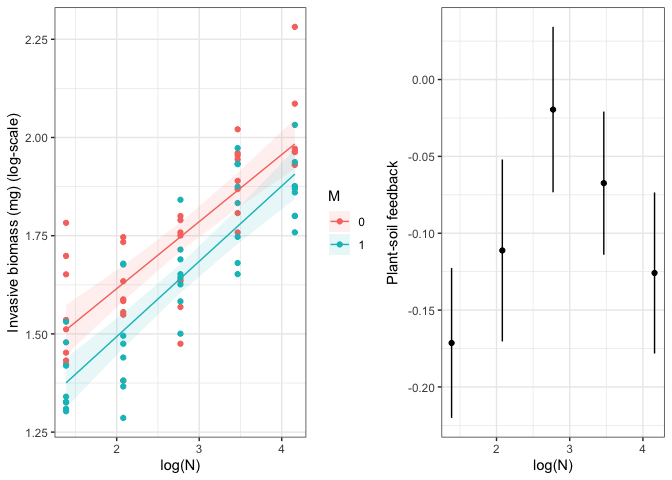
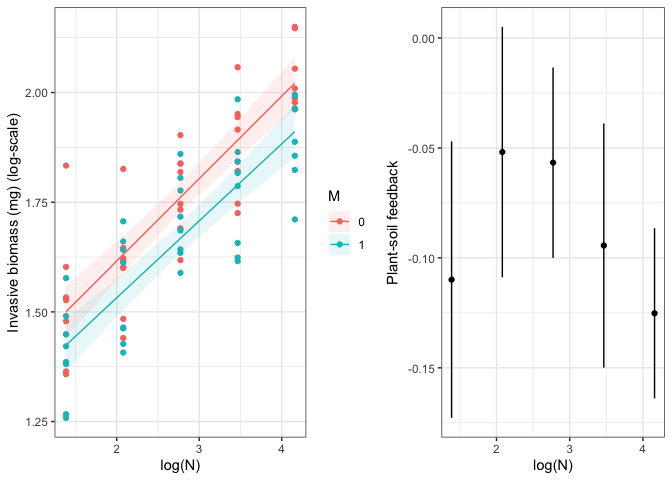
fix equations so that they display correctly on github

diff --git a/01-plan/01-pre-registration/03-analysis-plan.md b/01-plan/01-pre-registration/03-analysis-plan.md
@@ -41,26 +41,21 @@ stronger negative effect on plant biomass) with increasing nitrogen.
 Based on this experimental design, we will use the following linear
 model to analyse this experiment:
 
-$$
-\begin{aligned}
-log(L_{i}) = \alpha + \beta_1\text{N}_{i} + \beta_2\text{M}_{i} + \beta_3\text{N}_{i}\text{M}_{i} + \epsilon_{i}
-\end{aligned}
-$$ $$
-\begin{aligned}
-\epsilon_{i} \sim Normal(0, \sigma_{residual})
-\end{aligned}
-$$ Based on this model, we can set-up the statistical hypotheses as
+![log(L\_{i}) = \alpha + \beta_1\text{N}\_{i} + \beta_2\text{M}\_{i} + \beta_3\text{N}\_{i}\text{M}\_{i} + \epsilon\_{i}](log%28L_%7Bi%7D%29%20%3D%20%5Calpha%20%2B%20%5Cbeta_1%5Ctext%7BN%7D_%7Bi%7D%20%2B%20%5Cbeta_2%5Ctext%7BM%7D_%7Bi%7D%20%2B%20%5Cbeta_3%5Ctext%7BN%7D_%7Bi%7D%5Ctext%7BM%7D_%7Bi%7D%20%2B%20%5Cepsilon_%7Bi%7D "log(L_{i}) = \alpha + \beta_1\text{N}_{i} + \beta_2\text{M}_{i} + \beta_3\text{N}_{i}\text{M}_{i} + \epsilon_{i}")
+
+![\epsilon\_{i} \sim Normal(0, \sigma\_{residual})](%5Cepsilon_%7Bi%7D%20%5Csim%20Normal%280%2C%20%5Csigma_%7Bresidual%7D%29 "\epsilon_{i} \sim Normal(0, \sigma_{residual})")
+
+Based on this model, we can set-up the statistical hypotheses as
 follows:
 
-$$
-H_0: \beta_3 \ge 0
-$$ $$
-H_A: \beta_3 \lt 0
-$$
+![H_0: \beta_3 \ge 0](H_0%3A%20%5Cbeta_3%20%5Cge%200 "H_0: \beta_3 \ge 0")
 
-Therefore, if $\beta_3$ is significantly less than zero
-(i.e. $P < 0.025$), we would interpret this as evidence that plant-soil
-feedback does become stronger with increasing N.
+![H_A: \beta_3 \lt 0](H_A%3A%20%5Cbeta_3%20%5Clt%200 "H_A: \beta_3 \lt 0")
+
+Therefore, if ![\beta_3](%5Cbeta_3 "\beta_3") is significantly less than
+zero (i.e. ![P \< 0.025](P%20%3C%200.025 "P < 0.025")), we would
+interpret this as evidence that plant-soil feedback does become stronger
+with increasing N.
 
 ### Simulated data
 
@@ -122,12 +117,12 @@ head(dat_e1)
     # A tibble: 6 × 5
           N     M     L N_trans L_log
       <dbl> <dbl> <dbl>   <dbl> <dbl>
-    1  1.39     0  4.62       0  1.53
-    2  1.39     0  4.92       0  1.59
-    3  1.39     0  3.67       0  1.30
-    4  1.39     0  4.91       0  1.59
-    5  1.39     0  4.56       0  1.52
-    6  1.39     0  4.74       0  1.56
+    1  1.39     0  4.02       0  1.39
+    2  1.39     0  4.81       0  1.57
+    3  1.39     0  5.21       0  1.65
+    4  1.39     0  4.24       0  1.45
+    5  1.39     0  4.16       0  1.43
+    6  1.39     0  5.02       0  1.61
 
 Now we are ready to fit the model:
 
@@ -184,27 +179,30 @@ summary(lm_e1)
     lm(formula = L_log ~ M + N_trans + M:N_trans, data = dat_e1)
 
     Residuals:
-         Min       1Q   Median       3Q      Max 
-    -0.21661 -0.08118  0.02234  0.06484  0.25279 
+          Min        1Q    Median        3Q       Max 
+    -0.305161 -0.063319  0.000386  0.070744  0.237251 
 
     Coefficients:
                 Estimate Std. Error t value Pr(>|t|)    
-    (Intercept)  1.51180    0.02935  51.516  < 2e-16 ***
-    M           -0.16401    0.04150  -3.952 0.000172 ***
-    N_trans      0.21225    0.01728  12.280  < 2e-16 ***
-    M:N_trans   -0.09241    0.02444  -3.781 0.000309 ***
+    (Intercept)  1.52973    0.02958  51.709  < 2e-16 ***
+    M           -0.16738    0.04184  -4.001 0.000145 ***
+    N_trans      0.19906    0.01742  11.424  < 2e-16 ***
+    M:N_trans   -0.09175    0.02464  -3.723 0.000375 ***
     ---
     Signif. codes:  0 '***' 0.001 '**' 0.01 '*' 0.05 '.' 0.1 ' ' 1
 
-    Residual standard error: 0.1072 on 76 degrees of freedom
-    Multiple R-squared:  0.8205,    Adjusted R-squared:  0.8135 
-    F-statistic: 115.8 on 3 and 76 DF,  p-value: < 2.2e-16
+    Residual standard error: 0.108 on 76 degrees of freedom
+    Multiple R-squared:  0.8067,    Adjusted R-squared:  0.7991 
+    F-statistic: 105.7 on 3 and 76 DF,  p-value: < 2.2e-16
 
-In this output, the $\beta_3$ parameter is the “M:N_trans” parameter.
-This output indicates that $\beta_3$ is significantly less than zero
-($t_1 = -4.03; P = 0.00013$). Therefore, we would reject our null
-hypothesis ($H_0: \beta_3 \ge 0$) and infer support for our alternative
-hypothesis ($H_0: \beta_3 < 0$).
+In this output, the ![\beta_3](%5Cbeta_3 "\beta_3") parameter is the
+“M:N_trans” parameter. This output indicates that
+![\beta_3](%5Cbeta_3 "\beta_3") is significantly less than zero
+(![t_1 = -4.03; P = 0.00013](t_1%20%3D%20-4.03%3B%20P%20%3D%200.00013 "t_1 = -4.03; P = 0.00013")).
+Therefore, we would reject our null hypothesis
+(![H_0: \beta_3 \ge 0](H_0%3A%20%5Cbeta_3%20%5Cge%200 "H_0: \beta_3 \ge 0"))
+and infer support for our alternative hypothesis
+(![H_0: \beta_3 \< 0](H_0%3A%20%5Cbeta_3%20%3C%200 "H_0: \beta_3 < 0")).
 
 ### Visualise the results
 
@@ -212,14 +210,12 @@ To visualise the results, we will plot the model against the raw data.
 In addition, we will calculate plant-soil feedback using the metric used
 by Goossens et al. (2023, npj):
 
-$$
-PSF_j = \frac{\overline{L}_{microbes} - \overline{L}_{no \ microbes}}{\overline{L}_{no \ microbes}}
-$$
+![PSF_j = \frac{\overline{L}\_{microbes} - \overline{L}\_{no \\microbes}}{\overline{L}\_{no \\microbes}}](PSF_j%20%3D%20%5Cfrac%7B%5Coverline%7BL%7D_%7Bmicrobes%7D%20-%20%5Coverline%7BL%7D_%7Bno%20%5C%20microbes%7D%7D%7B%5Coverline%7BL%7D_%7Bno%20%5C%20microbes%7D%7D "PSF_j = \frac{\overline{L}_{microbes} - \overline{L}_{no \ microbes}}{\overline{L}_{no \ microbes}}")
 
-In this equation, the $\overline{L}$ is the average across replicates of
-plant biomass for a given nitrogen level. Therefore, to obtain a
-measurement of the error around this estimate for each level of
-nitrogen, we used bootstrapping.
+In this equation, the ![\overline{L}](%5Coverline%7BL%7D "\overline{L}")
+is the average across replicates of plant biomass for a given nitrogen
+level. Therefore, to obtain a measurement of the error around this
+estimate for each level of nitrogen, we used bootstrapping.
 
 ``` r
 # function for bootstrapping the sample and estimating psf
@@ -337,28 +333,26 @@ increasing nitrogen for invasive species. Based on this experimental
 design, we will use the following linear model to analyse this
 experiment:
 
-$$
-log(I_{i}) = \alpha + \beta_1\text{N}_{i} + \beta_2\text{M}_{i} + \beta_3\text{N}_{i}\text{M}_{i} + \epsilon_{i}
-$$ $$
-\epsilon_{i} \sim Normal(0, \sigma_{residual})
-$$ Based on this model, we can set-up the statistical hypotheses as
+![log(I\_{i}) = \alpha + \beta_1\text{N}\_{i} + \beta_2\text{M}\_{i} + \beta_3\text{N}\_{i}\text{M}\_{i} + \epsilon\_{i}](log%28I_%7Bi%7D%29%20%3D%20%5Calpha%20%2B%20%5Cbeta_1%5Ctext%7BN%7D_%7Bi%7D%20%2B%20%5Cbeta_2%5Ctext%7BM%7D_%7Bi%7D%20%2B%20%5Cbeta_3%5Ctext%7BN%7D_%7Bi%7D%5Ctext%7BM%7D_%7Bi%7D%20%2B%20%5Cepsilon_%7Bi%7D "log(I_{i}) = \alpha + \beta_1\text{N}_{i} + \beta_2\text{M}_{i} + \beta_3\text{N}_{i}\text{M}_{i} + \epsilon_{i}")
+
+![\epsilon\_{i} \sim Normal(0, \sigma\_{residual})](%5Cepsilon_%7Bi%7D%20%5Csim%20Normal%280%2C%20%5Csigma_%7Bresidual%7D%29 "\epsilon_{i} \sim Normal(0, \sigma_{residual})")
+
+Based on this model, we can set-up the statistical hypotheses as
 follows. The null hypothesis is that plant-soil feedback does not change
 or becomes weaker:
 
-$$
-H_0: \beta_3 \ge 0
-$$
+![H_0: \beta_3 \ge 0](H_0%3A%20%5Cbeta_3%20%5Cge%200 "H_0: \beta_3 \ge 0")
 
 The alternative hypothesis is that plant-soil feedback becomes stronger.
 
-$$
-H_A: \beta_3 \lt 0
-$$
+![H_A: \beta_3 \lt 0](H_A%3A%20%5Cbeta_3%20%5Clt%200 "H_A: \beta_3 \lt 0")
 
-Therefore, if $\beta_3$ is significantly less than zero
-(i.e. $P < 0.025$), we would interpret this as evidence that plant-soil
-feedback does become stronger with increasing N. However, if $\beta_3$
-is not significantly less than zero (i.e. $P \ge 0.025$), then we cannot
+Therefore, if ![\beta_3](%5Cbeta_3 "\beta_3") is significantly less than
+zero (i.e. ![P \< 0.025](P%20%3C%200.025 "P < 0.025")), we would
+interpret this as evidence that plant-soil feedback does become stronger
+with increasing N. However, if ![\beta_3](%5Cbeta_3 "\beta_3") is not
+significantly less than zero
+(i.e. ![P \ge 0.025](P%20%5Cge%200.025 "P \ge 0.025")), then we cannot
 reject the null hypothesis and we infer that nitrogen does not modify
 the strength of plant-soil feedback in invasive species.
 
@@ -418,12 +412,12 @@ head(dat_e2)
     # A tibble: 6 × 5
           N     M     I N_trans I_log
       <dbl> <dbl> <dbl>   <dbl> <dbl>
-    1  1.39     0  5.95       0  1.78
-    2  1.39     0  4.27       0  1.45
-    3  1.39     0  4.19       0  1.43
-    4  1.39     0  4.64       0  1.54
-    5  1.39     0  4.53       0  1.51
-    6  1.39     0  5.47       0  1.70
+    1  1.39     0  4.97       0  1.60
+    2  1.39     0  3.91       0  1.36
+    3  1.39     0  4.60       0  1.53
+    4  1.39     0  6.26       0  1.83
+    5  1.39     0  4.39       0  1.48
+    6  1.39     0  4.26       0  1.45
 
 Next, we fit the model.
 
@@ -476,26 +470,29 @@ summary(lm_e2)
 
     Residuals:
          Min       1Q   Median       3Q      Max 
-    -0.27198 -0.07256 -0.01714  0.08144  0.29805 
+    -0.20024 -0.07048 -0.01057  0.06855  0.33308 
 
     Coefficients:
                 Estimate Std. Error t value Pr(>|t|)    
-    (Intercept)  1.51041    0.03190  47.349  < 2e-16 ***
-    M           -0.13501    0.04511  -2.993  0.00373 ** 
-    N_trans      0.17065    0.01879   9.083 9.26e-14 ***
-    M:N_trans    0.02102    0.02657   0.791  0.43129    
+    (Intercept)  1.50048    0.02999  50.028   <2e-16 ***
+    M           -0.07619    0.04242  -1.796   0.0764 .  
+    N_trans      0.18799    0.01767  10.642   <2e-16 ***
+    M:N_trans   -0.01247    0.02498  -0.499   0.6192    
     ---
     Signif. codes:  0 '***' 0.001 '**' 0.01 '*' 0.05 '.' 0.1 ' ' 1
 
-    Residual standard error: 0.1165 on 76 degrees of freedom
-    Multiple R-squared:  0.7277,    Adjusted R-squared:  0.717 
-    F-statistic:  67.7 on 3 and 76 DF,  p-value: < 2.2e-16
+    Residual standard error: 0.1095 on 76 degrees of freedom
+    Multiple R-squared:  0.7488,    Adjusted R-squared:  0.7389 
+    F-statistic: 75.51 on 3 and 76 DF,  p-value: < 2.2e-16
 
-The $\beta_3$ parameter is the “M:N_trans” parameter. This output
-indicates that $\beta_3$ is not significantly less than zero
-($t_1 = 1.1; P = 0.27$). Therefore, we cannot reject the null hypothesis
-($H_0: \beta_3 \ge 0$) and, therefore, that plant-soil feedback does not
-become stronger with nitrogen for invasive species.
+The ![\beta_3](%5Cbeta_3 "\beta_3") parameter is the “M:N_trans”
+parameter. This output indicates that ![\beta_3](%5Cbeta_3 "\beta_3") is
+not significantly less than zero
+(![t_1 = 1.1; P = 0.27](t_1%20%3D%201.1%3B%20P%20%3D%200.27 "t_1 = 1.1; P = 0.27")).
+Therefore, we cannot reject the null hypothesis
+(![H_0: \beta_3 \ge 0](H_0%3A%20%5Cbeta_3%20%5Cge%200 "H_0: \beta_3 \ge 0"))
+and, therefore, that plant-soil feedback does not become stronger with
+nitrogen for invasive species.
 
 ### Visualise the results
 
@@ -575,23 +572,15 @@ plot(dag3)
 
 ![](03-analysis-plan_files/figure-commonmark/unnamed-chunk-19-1.png)
 
-$$
-log(L_{i}) = \alpha + \beta_1\text{N}_{i} + \beta_2\text{M}_{i} + \beta_3\text{I}_{i} + \beta_4\text{N}_{i}\text{M}_{i} + \beta_5\text{I}_{i}\text{M}_{i} + \beta_6\text{I}_{i}\text{N}_{i} + \beta_7\text{N}_{i}\text{M}_{i}\text{I}_{i} + \epsilon_{i}
-$$
+![log(L\_{i}) = \alpha + \beta_1\text{N}\_{i} + \beta_2\text{M}\_{i} + \beta_3\text{I}\_{i} + \beta_4\text{N}\_{i}\text{M}\_{i} + \beta_5\text{I}\_{i}\text{M}\_{i} + \beta_6\text{I}\_{i}\text{N}\_{i} + \beta_7\text{N}\_{i}\text{M}\_{i}\text{I}\_{i} + \epsilon\_{i}](log%28L_%7Bi%7D%29%20%3D%20%5Calpha%20%2B%20%5Cbeta_1%5Ctext%7BN%7D_%7Bi%7D%20%2B%20%5Cbeta_2%5Ctext%7BM%7D_%7Bi%7D%20%2B%20%5Cbeta_3%5Ctext%7BI%7D_%7Bi%7D%20%2B%20%5Cbeta_4%5Ctext%7BN%7D_%7Bi%7D%5Ctext%7BM%7D_%7Bi%7D%20%2B%20%5Cbeta_5%5Ctext%7BI%7D_%7Bi%7D%5Ctext%7BM%7D_%7Bi%7D%20%2B%20%5Cbeta_6%5Ctext%7BI%7D_%7Bi%7D%5Ctext%7BN%7D_%7Bi%7D%20%2B%20%5Cbeta_7%5Ctext%7BN%7D_%7Bi%7D%5Ctext%7BM%7D_%7Bi%7D%5Ctext%7BI%7D_%7Bi%7D%20%2B%20%5Cepsilon_%7Bi%7D "log(L_{i}) = \alpha + \beta_1\text{N}_{i} + \beta_2\text{M}_{i} + \beta_3\text{I}_{i} + \beta_4\text{N}_{i}\text{M}_{i} + \beta_5\text{I}_{i}\text{M}_{i} + \beta_6\text{I}_{i}\text{N}_{i} + \beta_7\text{N}_{i}\text{M}_{i}\text{I}_{i} + \epsilon_{i}")
 
-$$
-\epsilon_{i} \sim Normal(0, \sigma_{residual})
-$$
+![\epsilon\_{i} \sim Normal(0, \sigma\_{residual})](%5Cepsilon_%7Bi%7D%20%5Csim%20Normal%280%2C%20%5Csigma_%7Bresidual%7D%29 "\epsilon_{i} \sim Normal(0, \sigma_{residual})")
 
-$$
-H_0: \beta_7 \ge 0
-$$
+![H_0: \beta_7 \ge 0](H_0%3A%20%5Cbeta_7%20%5Cge%200 "H_0: \beta_7 \ge 0")
 
 The alternative hypothesis is that plant-soil feedback becomes stronger.
 
-$$
-H_A: \beta_7 \lt 0
-$$
+![H_A: \beta_7 \lt 0](H_A%3A%20%5Cbeta_7%20%5Clt%200 "H_A: \beta_7 \lt 0")
 
 ### Simulated data
 
@@ -679,12 +668,12 @@ head(dat_e3)
     # A tibble: 6 × 6
           N     M     I     L N_trans L_log
       <dbl> <dbl> <dbl> <dbl>   <dbl> <dbl>
-    1  1.39     0     0  5.47       0  1.70
-    2  1.39     0     0  4.74       0  1.56
-    3  1.39     0     0  5.33       0  1.67
-    4  1.39     0     0  5.14       0  1.64
-    5  1.39     0     0  5.31       0  1.67
-    6  1.39     0     0  5.45       0  1.69
+    1  1.39     0     0  5.29       0  1.67
+    2  1.39     0     0  4.65       0  1.54
+    3  1.39     0     0  5.20       0  1.65
+    4  1.39     0     0  5.23       0  1.65
+    5  1.39     0     0  4.96       0  1.60
+    6  1.39     0     0  5.14       0  1.64
 
 ``` r
 # fit the statistical model
@@ -730,31 +719,33 @@ summary(lm_e3)
 
     Residuals:
           Min        1Q    Median        3Q       Max 
-    -0.117347 -0.028253 -0.001368  0.030753  0.133403 
+    -0.117909 -0.038519  0.002396  0.034266  0.123897 
 
     Coefficients:
                  Estimate Std. Error t value Pr(>|t|)    
-    (Intercept)  1.531698   0.022295  68.700  < 2e-16 ***
-    N            0.090631   0.007581  11.954  < 2e-16 ***
-    M           -0.276688   0.031530  -8.775 3.26e-15 ***
-    I           -0.138612   0.031530  -4.396 2.06e-05 ***
-    N:M         -0.040454   0.010722  -3.773 0.000231 ***
-    M:I          0.053797   0.044591   1.206 0.229511    
-    N:I          0.010245   0.010722   0.956 0.340825    
-    N:M:I       -0.113451   0.015163  -7.482 5.47e-12 ***
+    (Intercept)  1.497750   0.025481  58.779  < 2e-16 ***
+    N            0.100172   0.008665  11.561  < 2e-16 ***
+    M           -0.207229   0.036036  -5.751 4.73e-08 ***
+    I           -0.081218   0.036036  -2.254   0.0256 *  
+    N:M         -0.058774   0.012254  -4.796 3.82e-06 ***
+    M:I         -0.050762   0.050962  -0.996   0.3208    
+    N:I         -0.008102   0.012254  -0.661   0.5095    
+    N:M:I       -0.084952   0.017330  -4.902 2.41e-06 ***
     ---
     Signif. codes:  0 '***' 0.001 '**' 0.01 '*' 0.05 '.' 0.1 ' ' 1
 
-    Residual standard error: 0.047 on 152 degrees of freedom
-    Multiple R-squared:  0.9777,    Adjusted R-squared:  0.9766 
-    F-statistic:   950 on 7 and 152 DF,  p-value: < 2.2e-16
+    Residual standard error: 0.05372 on 152 degrees of freedom
+    Multiple R-squared:  0.971, Adjusted R-squared:  0.9696 
+    F-statistic: 726.6 on 7 and 152 DF,  p-value: < 2.2e-16
 
-The $\beta_7$ parameter is the “N:M:I” parameter. This output indicates
-that $\beta_7$ is significantly less than zero ()
-($t_1 = -6.6; P < 0.001$). Therefore, we accept our alternative
-hypothesis that $\beta_7$ is less than zero which indicates that the
-competitive effect of invasives on natives increases with nitrogen but
-only with microbes.
+The ![\beta_7](%5Cbeta_7 "\beta_7") parameter is the “N:M:I” parameter.
+This output indicates that ![\beta_7](%5Cbeta_7 "\beta_7") is
+significantly less than zero ()
+(![t_1 = -6.6; P \< 0.001](t_1%20%3D%20-6.6%3B%20P%20%3C%200.001 "t_1 = -6.6; P < 0.001")).
+Therefore, we accept our alternative hypothesis that
+![\beta_7](%5Cbeta_7 "\beta_7") is less than zero which indicates that
+the competitive effect of invasives on natives increases with nitrogen
+but only with microbes.
 
 Function to bootstrap the competition estimate.
 
@@ -834,19 +825,19 @@ summary(comp_e3_boot)
 ```
 
      bootstrap_i              N               M         without_I    
-     Length:9910        Min.   :1.386   Min.   :0.0   Min.   :3.602  
-     Class :character   1st Qu.:2.079   1st Qu.:0.0   1st Qu.:4.065  
-     Mode  :character   Median :2.773   Median :0.5   Median :4.646  
-                        Mean   :2.773   Mean   :0.5   Mean   :5.008  
-                        3rd Qu.:3.466   3rd Qu.:1.0   3rd Qu.:5.978  
-                        Max.   :4.159   Max.   :1.0   Max.   :6.995  
+     Length:9930        Min.   :1.386   Min.   :0.0   Min.   :3.576  
+     Class :character   1st Qu.:2.079   1st Qu.:0.0   1st Qu.:4.136  
+     Mode  :character   Median :2.773   Median :0.5   Median :4.697  
+                        Mean   :2.773   Mean   :0.5   Mean   :5.013  
+                        3rd Qu.:3.466   3rd Qu.:1.0   3rd Qu.:5.751  
+                        Max.   :4.159   Max.   :1.0   Max.   :7.217  
          with_I       competition    
-     Min.   :2.375   Min.   :0.5553  
-     1st Qu.:2.769   1st Qu.:0.6804  
-     Median :3.718   Median :0.8075  
-     Mean   :4.077   Mean   :0.7958  
-     3rd Qu.:5.164   3rd Qu.:0.8998  
-     Max.   :6.680   Max.   :1.0371  
+     Min.   :2.349   Min.   :0.5292  
+     1st Qu.:2.775   1st Qu.:0.6680  
+     Median :3.850   Median :0.8171  
+     Mean   :4.057   Mean   :0.7912  
+     3rd Qu.:5.392   3rd Qu.:0.8936  
+     Max.   :6.310   Max.   :1.0536  
 
 ``` r
 # summarise these bootstrapped samples
